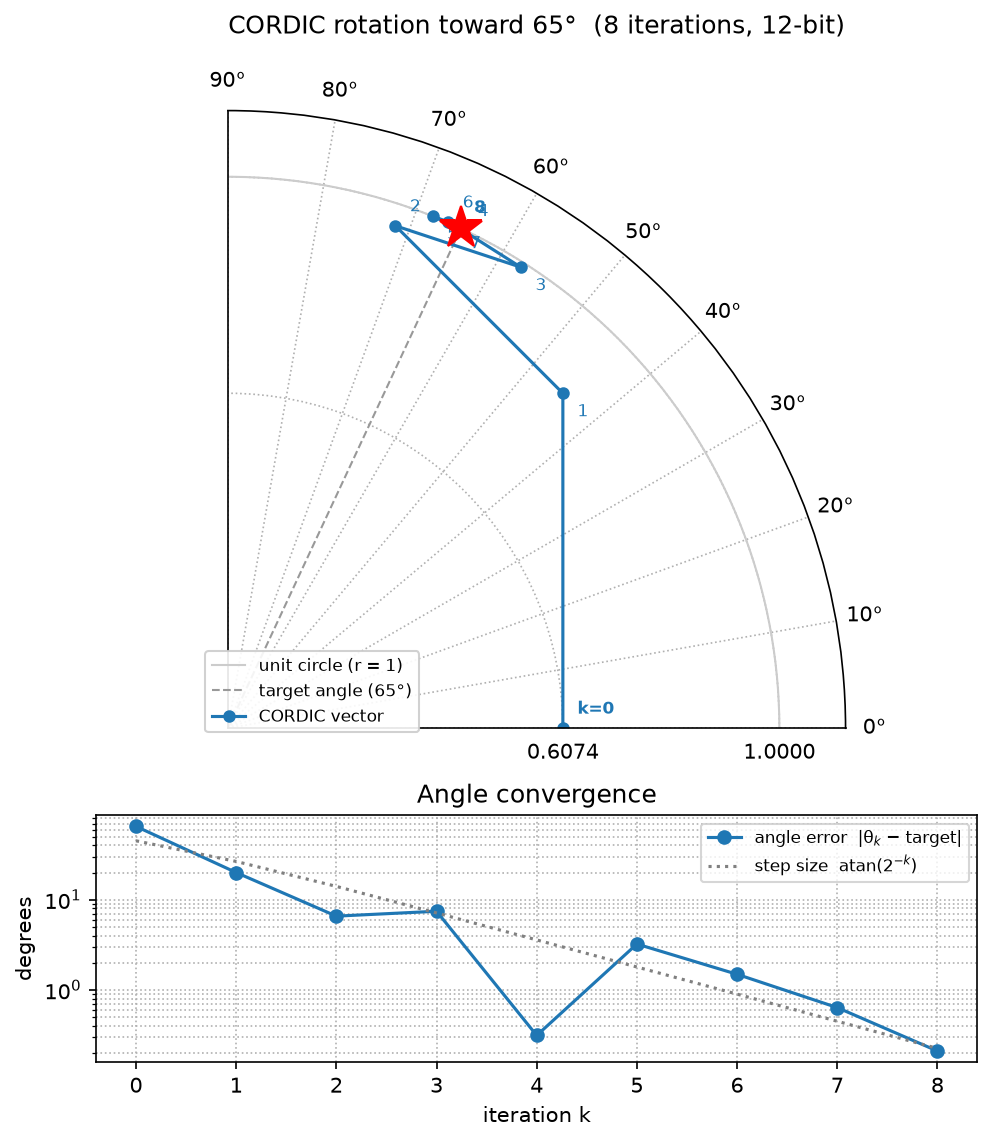
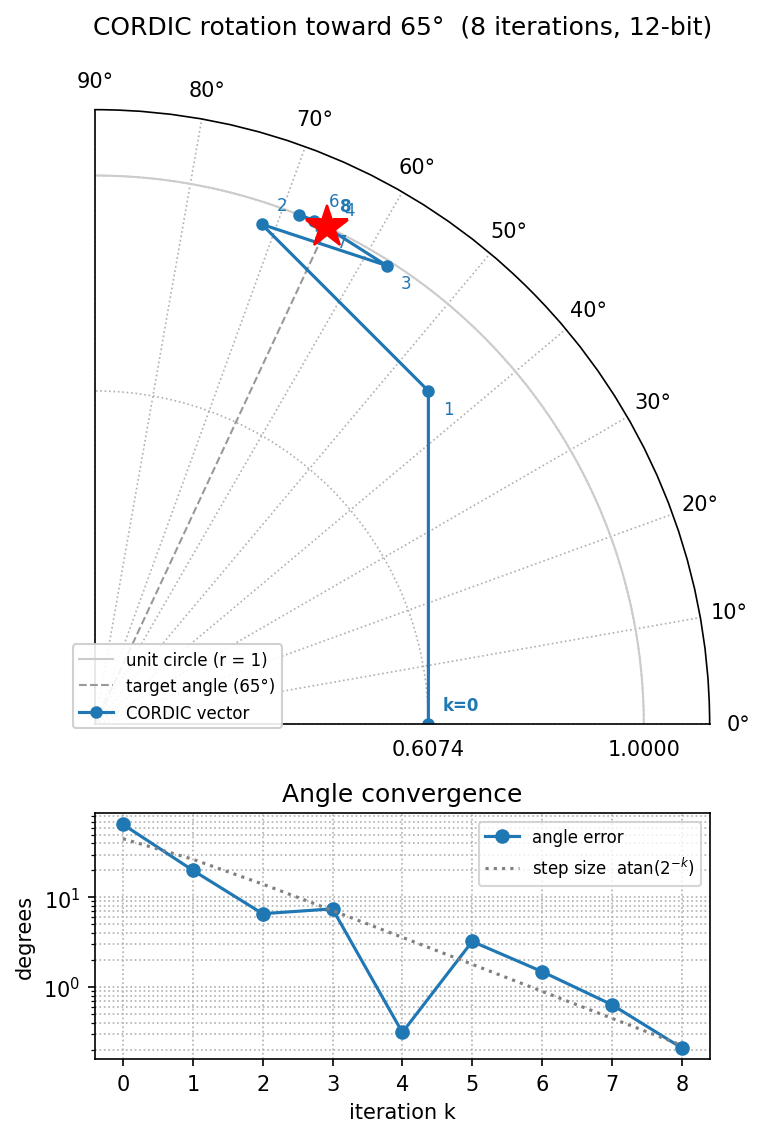
Update figure

diff --git a/docs/cordic_sample.py b/docs/cordic_sample.py
@@ -250,8 +250,11 @@ if __name__ == "__main__":
     axc.grid(True, which="both", ls=":")
     axc.legend(fontsize=8)
 
-    # constrained_layout (set on the figure) handles spacing; no tight_layout,
-    # which warns on polar axes.
+    figp.canvas.draw()
+    figp.set_layout_engine("none")
+    pp, pc = axp.get_position(), axc.get_position()
+    axc.set_position([pp.x0, pc.y0, pp.width, pc.height])
+
     out_png = Path(__file__).resolve().parent / "cordic_rotation.png"
     figp.savefig(out_png, dpi=150, bbox_inches="tight")
     print(f"wrote {out_png}")
